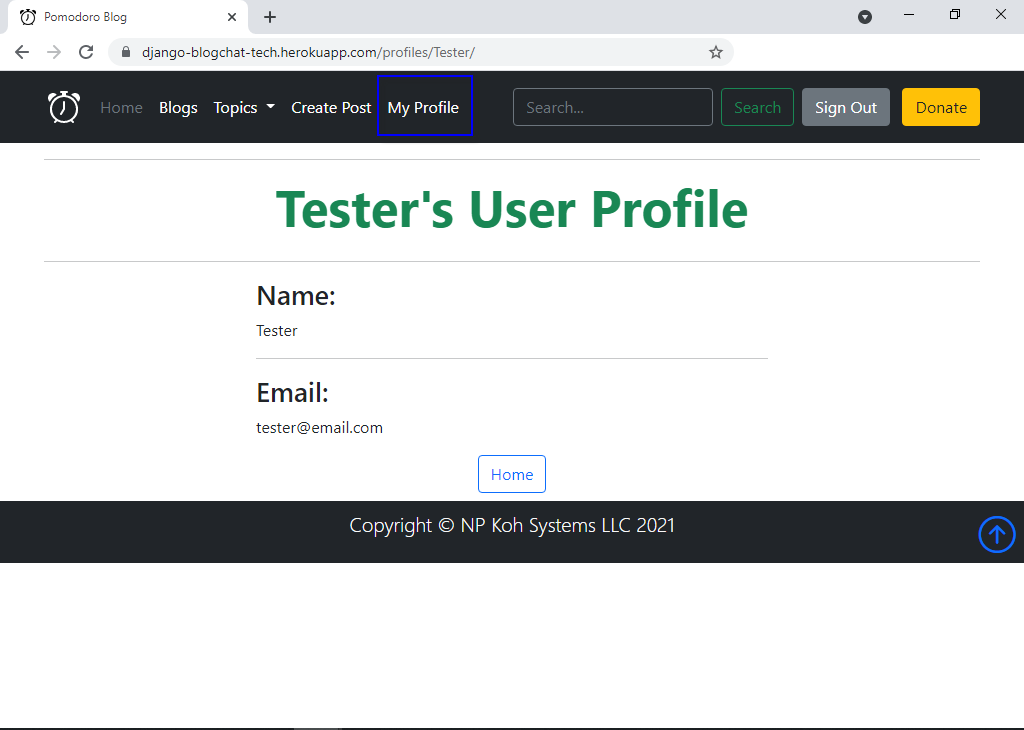
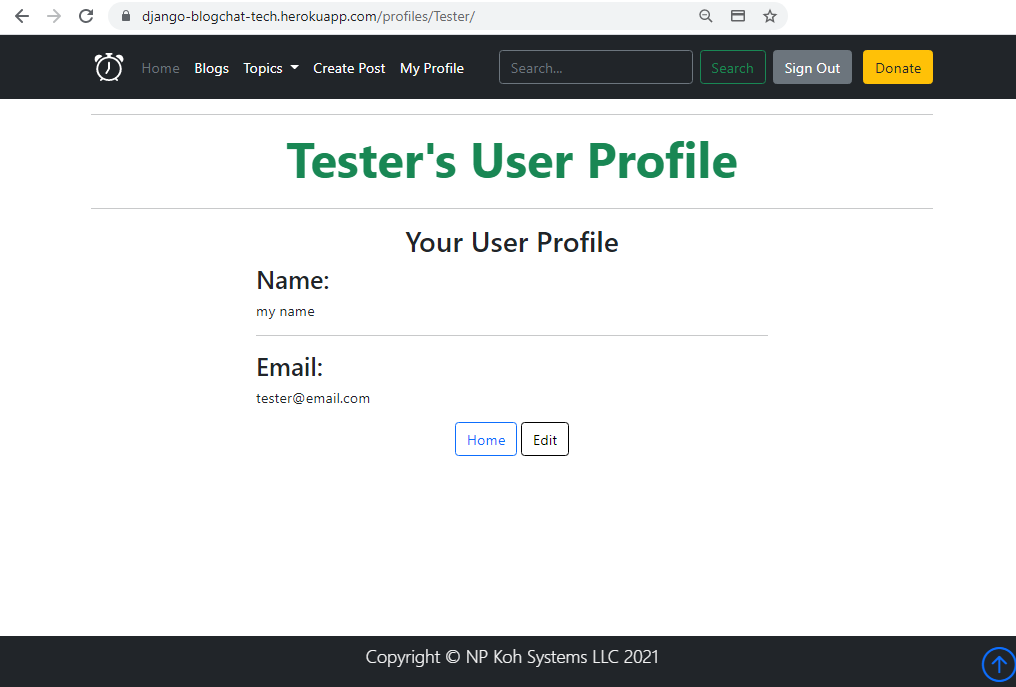
Edit README.md add edit user profile and image

diff --git a/README.md b/README.md
@@ -84,6 +84,7 @@ The inspiration for this application came from Francis Bacon's quote and  [Barba
     + [Verify Email](#verify-email)
   * [User Profile](#user-profile)
     + [My Profile](#my-profile)
+    + [Edit My Profile](#edit-my-profile)
     + [User Profile Admin Panel](#user-profile-admin-panel)
   * [Donation Payments using Stripe](#donation-payments-using-stripe)
     + [Stripe](#stripe)
@@ -775,6 +776,12 @@ Fields Values Inherit from Users
 - User name
 
 ![my Profile](docs/readme/userProfile.png)
+
+#### Edit My Profile
+
+- Name
+
+![my Profile](docs/readme/editUserProfile.png)
 
 #### User Profile Admin Panel
 
